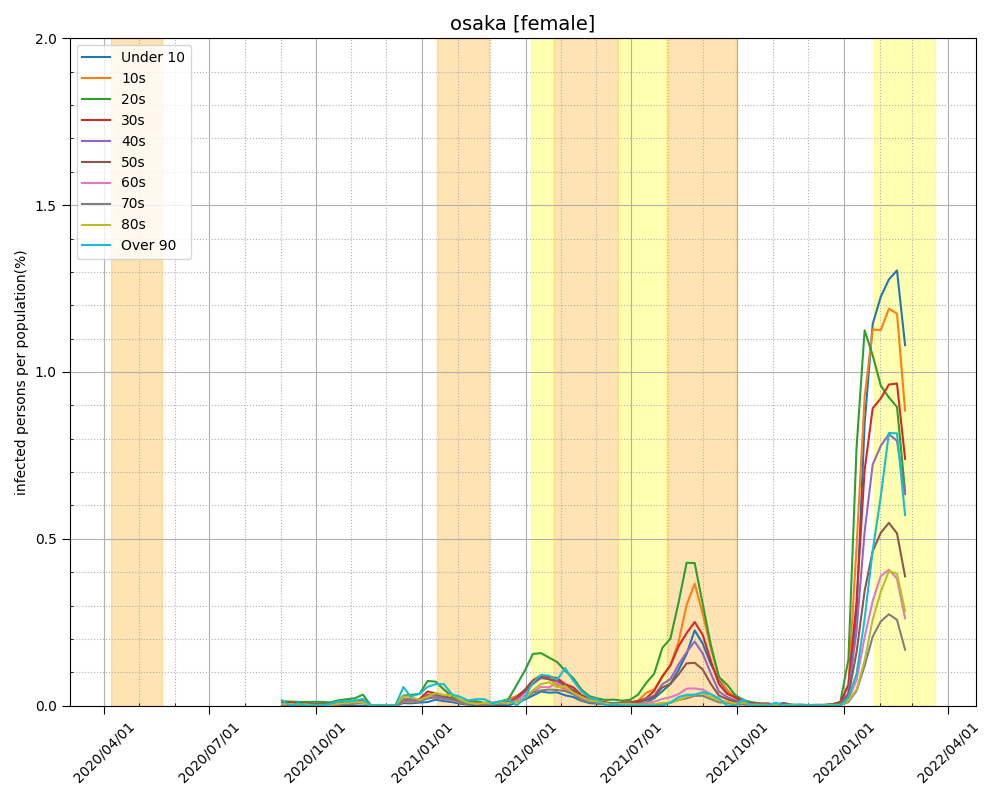
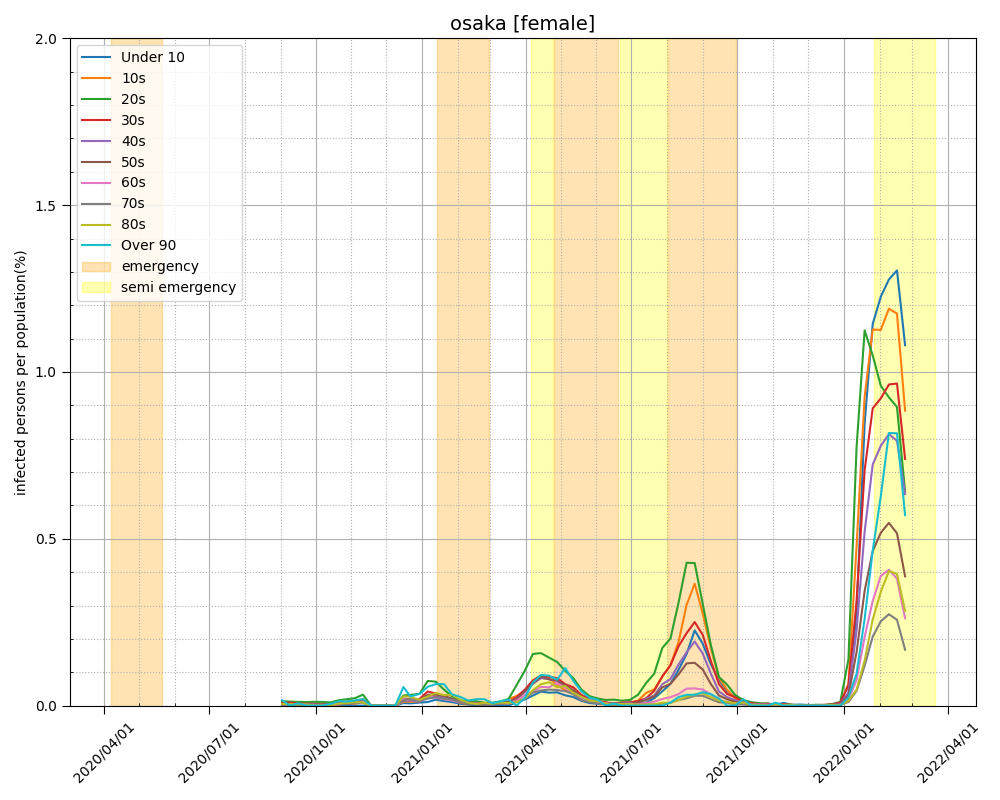
背景色も凡例に追加、出力例を更新

Changed region(s): [[0.062, 0.3125, 0.248, 0.375]]

diff --git a/make_output.py b/make_output.py
@@ -36,30 +36,28 @@ def data_merge(target_columns, df_population, df_infected):
 # 緊急事態宣言等の履歴
 # https://www.kwm.co.jp/blog/state-of-emergency/
 emergency_term = [  # 緊急事態宣言
-    [dt.fromisoformat('2020-04-07'), dt.fromisoformat('2020-05-21')],  # 1回目
-    [dt.fromisoformat('2021-01-14'), dt.fromisoformat('2021-02-28')],  # 2回目
-    [dt.fromisoformat('2021-04-25'), dt.fromisoformat('2021-06-20')],  # 3回目、2回目のまん防に変わった
-    [dt.fromisoformat('2021-08-02'), dt.fromisoformat('2021-09-30')],  # 4回目
+    [dt.fromisoformat('2020-04-07'), dt.fromisoformat('2020-05-21'), 'emergency'],  # 1回目
+    [dt.fromisoformat('2021-01-14'), dt.fromisoformat('2021-02-28'), None],  # 2回目
+    [dt.fromisoformat('2021-04-25'), dt.fromisoformat('2021-06-20'), None],  # 3回目、2回目のまん防に変わった
+    [dt.fromisoformat('2021-08-02'), dt.fromisoformat('2021-09-30'), None],  # 4回目
 ]
 semi_emergency_term = [  # まん延防止等重点措置
-    [dt.fromisoformat('2021-04-05'), dt.fromisoformat('2021-04-24')],  # 1回目、3回目の緊急事態宣言に変わった
-    [dt.fromisoformat('2021-06-21'), dt.fromisoformat('2021-08-01')],  # 2回目、4回目の緊急事態宣言に変わった
-    [dt.fromisoformat('2022-01-27'), dt.fromisoformat('2022-03-21')],  # 3回目、延長中
+    [dt.fromisoformat('2021-04-05'), dt.fromisoformat('2021-04-24'), 'semi emergency'],  # 1回目、3回目の緊急事態宣言に変わった
+    [dt.fromisoformat('2021-06-21'), dt.fromisoformat('2021-08-01'), None],  # 2回目、4回目の緊急事態宣言に変わった
+    [dt.fromisoformat('2022-01-27'), dt.fromisoformat('2022-03-21'), None],  # 3回目、延長中
 ]
 
 
-def make_graph(df_result, prefectures, gender):
+def _make_graph(df_result, prefectures, gender):
     # グラフ全体の設定
     plt.figure(figsize=(10.0, 8.0))  # 横、縦
-    plt.plot(df_result)
-    plt.legend(df_result.columns, loc='upper left')
-    plt.title(f"{prefectures} [{gender}]", fontsize=14)
+    plt.plot(df_result, label=df_result.columns)
 
     # 背景 https://bunsekikobako.com/axvspan-and-axhspan/
     for term in emergency_term:  # 緊急事態宣言
-        plt.axvspan(term[0], term[1], color="orange", alpha=0.3)
+        plt.axvspan(term[0], term[1], color="orange", alpha=0.3, label=term[2])
     for term in semi_emergency_term:  # まん延防止等重点措置
-        plt.axvspan(term[0], term[1], color="yellow", alpha=0.3)
+        plt.axvspan(term[0], term[1], color="yellow", alpha=0.3, label=term[2])
 
     # Y軸 主目盛
     plt.ylabel('infected persons per population(%)')
@@ -82,6 +80,16 @@ def make_graph(df_result, prefectures, gender):
     plt.gca().tick_params(which='minor', axis='x', direction='in')
     plt.grid(which='minor', axis='x', linestyle='dotted')
 
+    # 全体設定
+    plt.legend(loc='upper left')
+    plt.title(f"{prefectures} [{gender}]", fontsize=14)
     plt.tight_layout()
     plt.savefig(f"output/{prefectures}_{gender}.png")
     plt.close('all')
+
+
+def make_output(df_result, prefectures, gender):
+    _make_graph(df_result, prefectures, gender)
+
+    # ファイルでも保存
+    df_result.to_csv(f'output/{prefectures}_{gender}.csv')

diff --git a/main.py b/main.py
@@ -1,6 +1,6 @@
 from read_infected import read_infected
 from read_population_osaka_fu import read_population_osaka_fu
-from make_output import make_graph, data_merge
+from make_output import make_output, data_merge
 
 if __name__ == '__main__':
     # 年代
@@ -14,8 +14,8 @@ if __name__ == '__main__':
 
     # 結合＆グラフ作る
     result_female = data_merge(_period_array, population.get('male'), infected.get('male'))
-    make_graph(result_female, 'osaka', 'male')
+    make_output(result_female, 'osaka', 'male')
 
     result_male = data_merge(_period_array, population.get('female'), infected.get('female'))
-    make_graph(result_male, 'osaka', 'female')
+    make_output(result_male, 'osaka', 'female')
 
